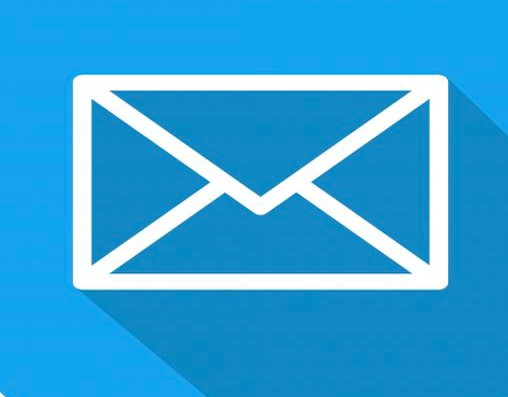
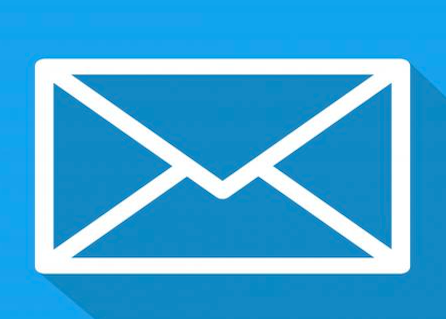
Portfolio images updated and latest session added

diff --git a/content/sections/2-Portfolio.en.md b/content/sections/2-Portfolio.en.md
@@ -4,8 +4,8 @@ header: "Lunch and Learn"
 subheader: "Previous sessions recorded"
 portfolios: [
   {
-    imageFileName: "portfolio/01-thumbnail.jpg",
-    imageFileNameDetail: "portfolio/01-full.jpg",
+    imageFileName: "portfolio/users.jpg",
+    imageFileNameDetail: "portfolio/users.jpg",
     header: "User Behaviour Testing",
     subheader: "by Nikita Schultz",
     content: "Gatling is a powerful tool: with only a few machines, you can simulate hundreds of thousands of requests per second on your web application and get high-precision metrics.",
@@ -22,8 +22,8 @@ portfolios: [
     videoLink: "https://2itesting-my.sharepoint.com/:v:/p/adam_pettman/EZRWQzJc9ItPv0vW1atefBQBuTWAyGRFWPu7iaVhekz06w"
   },
   {
-    imageFileName: "portfolio/03-thumbnail.jpg",
-    imageFileNameDetail: "portfolio/03-full.jpg",
+    imageFileName: "portfolio/quill.jpg",
+    imageFileNameDetail: "portfolio/quill.jpg",
     header: "Playwright- The New Kid on the Block",
     subheader: "by Kat Kmiotek",
     content: "Playwright enables fast, reliable and capable testing and automation across all modern browsers. This guide covers those key differentiators to help you decide on the right tool for your automated tests.",
@@ -31,8 +31,8 @@ portfolios: [
     videoLink: "https://2itesting-my.sharepoint.com/:v:/p/adam_pettman/ES16i-HW3C5JpqOjqwHifLwBF2KxP7oZNxFcLhLwYbWksw"
   },
   {
-    imageFileName: "portfolio/04-thumbnail.jpg",
-    imageFileNameDetail: "portfolio/04-full.jpg",
+    imageFileName: "portfolio/dungeon.jpg",
+    imageFileNameDetail: "portfolio/dungeon.jpg",
     header: "Meet my Game",
     subheader: "by Liam Meagher",
     content: "Meet my game. See what I created using the Unity game engine and have a peek behind the curtain to see how it works.",
@@ -40,8 +40,8 @@ portfolios: [
     videoLink: "https://2itesting-my.sharepoint.com/:v:/p/adam_pettman/Ef2lcybw6XVJhGRKXcLWAeABQGgWBhbLd946xajtJYCWwg?e=ZjNj18&isSPOFile=1"
   },
   {
-    imageFileName: "portfolio/05-thumbnail.jpg",
-    imageFileNameDetail: "portfolio/05-full.jpg",
+    imageFileName: "portfolio/graphql.png",
+    imageFileNameDetail: "portfolio/graphql.png",
     header: "GraphQL -Playground",
     subheader: "by Kat Kmiotek",
     content: "What is GraphQL? How to set up Apollo Server? How GraphQL is different from REST API? Watch the video to find answers",
@@ -49,8 +49,8 @@ portfolios: [
     videoLink: "https://2itesting-my.sharepoint.com/:v:/p/adam_pettman/EfduVo-FdmNFqNxPT0Q-b4QB6z2otskFZ0_ZZmXwFX478g"
   },
   {
-    imageFileName: "portfolio/06-thumbnail.jpg",
-    imageFileNameDetail: "portfolio/06-full.jpg",
+    imageFileName: "portfolio/flags.jpg",
+    imageFileNameDetail: "portfolio/flags.jpg",
     header: "Testing internationalization - i18n",
     subheader: "by Kat Kmiotek",
     content: "Developing multilingual app? Great idea! But how you know works as expected in other languages? What your user will see if you won't test it?",
@@ -58,13 +58,22 @@ portfolios: [
     videoLink: "https://2itesting-my.sharepoint.com/:v:/p/adam_pettman/EVzmDZLsr65NhYHeXTQO3NoBKBfsp7m0b4LUZnR0YA1hOw"
   },
   {
-    imageFileName: "portfolio/06-thumbnail.jpg",
-    imageFileNameDetail: "portfolio/06-full.jpg",
+    imageFileName: "portfolio/molecule.jpg",
+    imageFileNameDetail: "portfolio/molecule.jpg",
     header: "Atoms, Molecules and Organisms",
     subheader: "by Nikita Schultz",
     content: "Bit is a component-based approach to modern application development. Bit makes the development and composition of modern applications from independent components repeatable and fun. For developers, designers and testers!",
     extraInfo: ["Date: 06 May 2021", "Tools: bit.dev, Atomic Design", "Category: UI"],
     videoLink: "https://2itesting-my.sharepoint.com/:v:/p/adam_pettman/ER1DIsegNJJOloJOYNESBloBbcGnAWrxuK53F2xP0_WqiA"
+  },
+  {
+    imageFileName: "ideas.jpg",
+    imageFileNameDetails: "ideas.jpg",
+    header: "Squad 3 Google Cloud Proofs of Concept",
+    subheader: "by Carla, Lewis, Martin and Matthew",
+    content: "So many clever ideas! How to use Google Vison API or Google ML for testing? Great presentations from Squad 3",
+    extraInfo: ["Date: 21 Oct 2021", "Tools: Google Vision, Google ML", "Category: Automation POCs"],
+    videoLink: "https://2itesting-my.sharepoint.com/:v:/p/adam_pettman/ESFH0dobZv5Dl8zd3KZPfFQBC-kaNRnanAUvVwt96bkKxg"
   }
 ]
 ---
